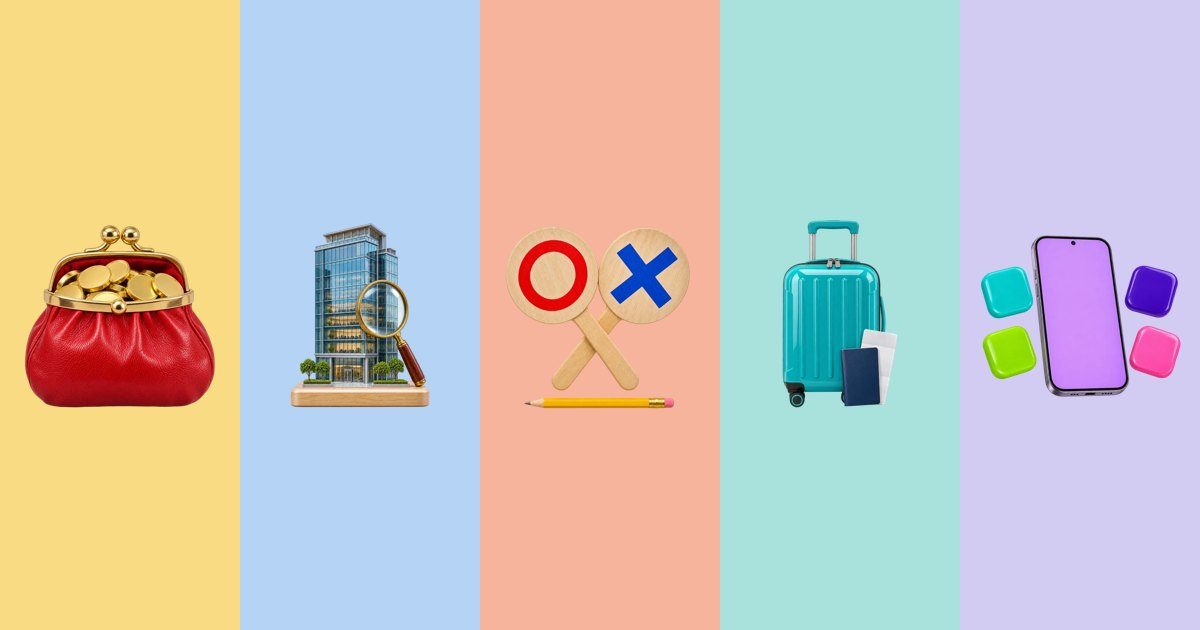
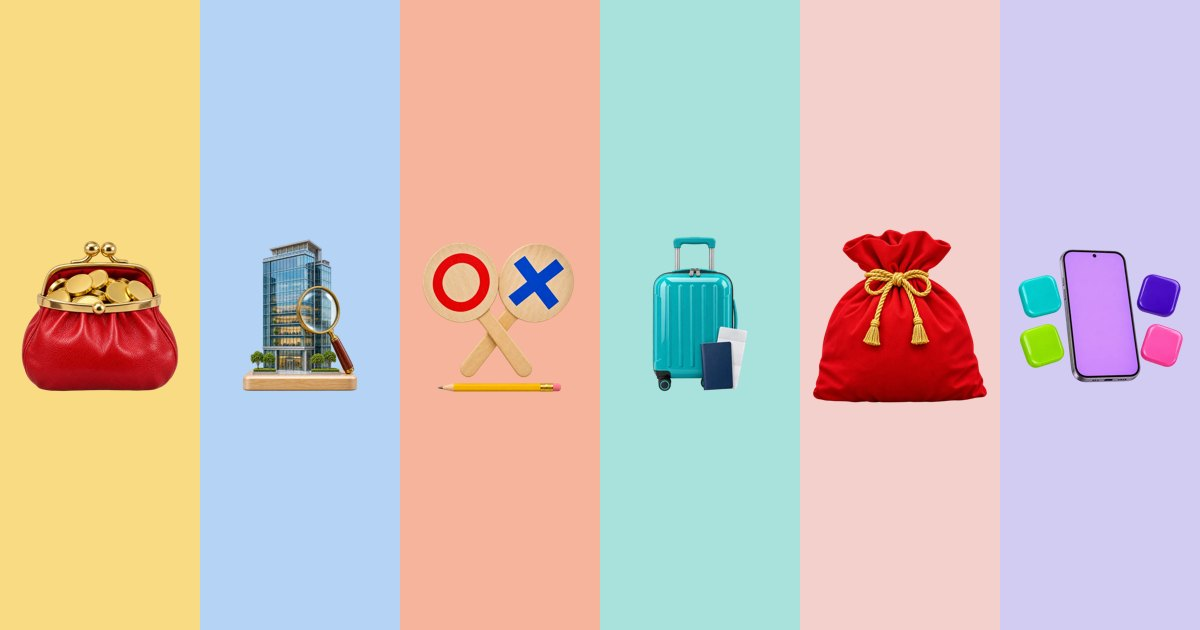
特集を更新（Codex）

diff --git a/feature/fukubukuro/index.html b/feature/fukubukuro/index.html
@@ -1,0 +1,21 @@
+<!DOCTYPE html>
+<html lang="ja"><head><meta charset="utf-8"><meta name="viewport" content="width=device-width,initial-scale=1">
+<title>福袋の記事一覧｜OTOKUBOY</title><meta name="description" content="ブランドごとの福袋の中身、価格、予約・抽選・受取日。"><link rel="canonical" href="https://otokuboy.com/feature/fukubukuro/">
+<meta name="robots" content="max-image-preview:large">
+<meta property="og:title" content="福袋の記事一覧｜OTOKUBOY"><meta property="og:description" content="ブランドごとの福袋の中身、価格、予約・抽選・受取日。"><meta property="og:type" content="website"><meta property="og:site_name" content="OTOKUBOY"><meta property="og:url" content="https://otokuboy.com/feature/fukubukuro/"><meta property="og:locale" content="ja_JP">
+<meta property="og:image" content="https://otokuboy.com/og.jpg"><meta name="twitter:card" content="summary_large_image"><meta name="twitter:site" content="@otokuboy0214">
+<script type="application/ld+json">{"@context": "https://schema.org", "@type": "BreadcrumbList", "itemListElement": [{"@type": "ListItem", "position": 1, "name": "売り場", "item": "https://otokuboy.com/"}, {"@type": "ListItem", "position": 2, "name": "特集", "item": "https://otokuboy.com/feature/"}, {"@type": "ListItem", "position": 3, "name": "福袋", "item": "https://otokuboy.com/feature/fukubukuro/"}]}</script>
+<link rel="alternate" type="application/rss+xml" title="OTOKUBOY" href="https://otokuboy.com/feed.xml">
+<link rel="icon" href="../../favicon.png"><link rel="apple-touch-icon" href="../../apple-touch-icon.png">
+<link rel="preconnect" href="https://fonts.googleapis.com"><link rel="preconnect" href="https://fonts.gstatic.com" crossorigin><link rel="stylesheet" href="https://fonts.googleapis.com/css2?family=Anton&family=Dela+Gothic+One&family=M+PLUS+1+Code:wght@400;500;700&family=Zen+Kaku+Gothic+New:wght@500;700&display=swap"><link rel="stylesheet" href="../../style.css"></head><body>
+<header class="top"><a class="brand" href="../../">OTOKUBOY<small>お金とアプリの売り場</small></a></header>
+<main><div class="a-head s-head" style="--bg:#F3D0CB;--fg:#67273A"><div class="hero"><img src="../../img/hero/feature.webp" alt=""></div><div class="wrap">
+<p class="crumb"><a href="../../">売り場</a> ／ <a href="../../feature/">特集</a></p><p class="hook">ブログ</p><h1>福袋</h1>
+<p class="lede">ブランドごとの福袋の中身、価格、予約・抽選・受取日。</p></div></div>
+<section class="latest"><div class="wrap"><p class="chips"><a href="../../feature/">ぜんぶ</a><a href="../../feature/fukubukuro/" class=on>福袋</a><a href="../../feature/hatsuuri/">初売り</a></p><div class="finder"><label><span class="vh">記事をさがす</span><input type="search" placeholder="キーワードでさがす（例: ふるさと納税・締切・福袋）" autocomplete="off"></label><p class="count" aria-live="polite"><b>2</b>本</p></div><div class="cards" data-page="12"><a class="card" data-k="サンリオ福袋2027は全7キャラ4,990円で1人交代 1人だけ交代 福袋・セール サンリオの福袋2027が2026年11月20日に発表されました。全7キャラクター共通で価格は4,990円、去年と同額です。キャラクターは1人だけ交代し、中身のアイテムも1品入れ替わっています。価格・予約スケジュール・去年との違いを公式発表から整理しました。" style="--bg:#F7B49C;--fg:#7A1620" href="../../money/breaking-sanrio-fukubukuro2027-20261120/"><img src="../../img/thumb/gOXu60-PbUg.jpg" alt="" loading="lazy"><span class="b"><span class="m">2026-11-20・福袋・セール</span><span class="hook">1人だけ交代</span><span class="t">サンリオ福袋2027は全7キャラ4,990円で1人交代</span></span></a><a class="card" data-k="ゴディバ福袋2027は3種類、価格据え置きでも中身は変化 価格は据え置き 福袋・セール ゴディバの福袋2027が2026年11月20日に発表されました。通常版5,400円・アウトレット限定6,000円・オンライン限定6,480円で価格は去年と同じですが、中身は一部入れ替わっています。価格・中身・予約スケジュールを公式発表から整理しました。" style="--bg:#F7B49C;--fg:#7A1620" href="../../money/breaking-godiva-fukubukuro2027-20261120/"><img src="../../img/thumb/utB9GA4n9JY.jpg" alt="" loading="lazy"><span class="b"><span class="m">2026-11-20・福袋・セール</span><span class="hook">価格は据え置き</span><span class="t">ゴディバ福袋2027は3種類、価格据え置きでも中身は変化</span></span></a></div><p class="more"><button type="button">もっと見る</button></p></div></section><section class="ads list-ads"><div class="wrap"><aside class="ad ad-main" style="--ad:#BF0000" aria-label="広告"><p class="ad-tag">広告・紹介リンク</p><div class="ad-in"><div class="ad-pic"><img src="../../img/ads/rakuten_card.webp" width="468" height="296" alt="楽天カードの公式画像" loading="lazy"></div><div class="ad-txt"><p class="ad-brand">楽天カード</p><p class="ad-h"><small>新規入会とご利用で</small><b>最大<span>11,000</span>ポイント</b></p><p class="ad-until">11月30日（月）10:00 まで</p><ul><li>年会費は永年無料</li><li>初めて楽天カードを申し込む方が対象</li><li>ポイントの進呈には条件があります</li></ul><div class="ad-btns"><a class="ad-btn" href="https://r10.to/hYuSct?openExternalBrowser=1" rel="sponsored nofollow noopener" target="_blank">紹介ページで条件を見る</a></div></div></div><p class="ad-note">※ 2026/11/21 時点の内容です。条件・期間は変わることがあります。申込みの前にリンク先の公式の案内を確かめてください。</p></aside></div></section></main>
+<footer class="foot"><div class="wrap"><div class="g">
+<div><h4>YOUTUBE</h4><ul><li><a href="../../money/">お金（お金の総合チャンネル）</a></li><li><a href="../../kaitai/">企業解説（ビジネス解体新書）</a></li><li><a href="../../shikaku/">資格解説（マルバツ資格塾）</a></li></ul></div>
+<div><h4>APPS</h4><ul><li><a href="../../apps/diving/">ダイビング（Ocean Discovery）</a></li><li><a href="../../apps/sake/">お酒（お酒図鑑）</a></li><li><a href="../../apps/workout/">筋トレ（筋トレクエスト）</a></li><li><a href="../../apps/tabi/">旅記録（Tabi Note）</a></li><li><a href="https://tabinoteapp.com/apps/">アプリのサポート</a></li></ul></div>
+<div><h4>ABOUT</h4><ul><li><a href="../../about/">このサイトについて・運営者</a></li><li><a href="../../privacy/">プライバシーと広告の表記</a></li><li>数字は公式の発表で確かめたものだけを載せます。</li><li>金額・締切は記事の日付時点のものです。申込みの前に公式の最新の案内を確かめてください。</li></ul></div>
+</div><div class="big">OTOKUBOY</div></div></footer>
+<script src="../../app.js"></script></body></html>

diff --git a/feature/index.html b/feature/index.html
@@ -1,0 +1,21 @@
+<!DOCTYPE html>
+<html lang="ja"><head><meta charset="utf-8"><meta name="viewport" content="width=device-width,initial-scale=1">
+<title>特集の記事一覧｜OTOKUBOY</title><meta name="description" content="福袋の中身・予約・抽選と、初売りの期間・条件をブランドごとに紹介します。"><link rel="canonical" href="https://otokuboy.com/feature/">
+<meta name="robots" content="max-image-preview:large">
+<meta property="og:title" content="特集の記事一覧｜OTOKUBOY"><meta property="og:description" content="福袋の中身・予約・抽選と、初売りの期間・条件をブランドごとに紹介します。"><meta property="og:type" content="website"><meta property="og:site_name" content="OTOKUBOY"><meta property="og:url" content="https://otokuboy.com/feature/"><meta property="og:locale" content="ja_JP">
+<meta property="og:image" content="https://otokuboy.com/og.jpg"><meta name="twitter:card" content="summary_large_image"><meta name="twitter:site" content="@otokuboy0214">
+<script type="application/ld+json">{"@context": "https://schema.org", "@type": "BreadcrumbList", "itemListElement": [{"@type": "ListItem", "position": 1, "name": "売り場", "item": "https://otokuboy.com/"}, {"@type": "ListItem", "position": 2, "name": "特集", "item": "https://otokuboy.com/feature/"}]}</script>
+<link rel="alternate" type="application/rss+xml" title="OTOKUBOY" href="https://otokuboy.com/feed.xml">
+<link rel="icon" href="../favicon.png"><link rel="apple-touch-icon" href="../apple-touch-icon.png">
+<link rel="preconnect" href="https://fonts.googleapis.com"><link rel="preconnect" href="https://fonts.gstatic.com" crossorigin><link rel="stylesheet" href="https://fonts.googleapis.com/css2?family=Anton&family=Dela+Gothic+One&family=M+PLUS+1+Code:wght@400;500;700&family=Zen+Kaku+Gothic+New:wght@500;700&display=swap"><link rel="stylesheet" href="../style.css"></head><body>
+<header class="top"><a class="brand" href="../">OTOKUBOY<small>お金とアプリの売り場</small></a></header>
+<main><div class="a-head s-head" style="--bg:#F3D0CB;--fg:#67273A"><div class="hero"><img src="../img/hero/feature.webp" alt=""></div><div class="wrap">
+<p class="crumb"><a href="../">売り場</a></p><p class="hook">ブログ</p><h1>特集</h1>
+<p class="lede">福袋の中身・予約・抽選と、初売りの期間・条件をブランドごとに紹介します。</p></div></div>
+<section class="latest"><div class="wrap"><p class="chips"><a href="../feature/" class=on>ぜんぶ</a><a href="../feature/fukubukuro/">福袋</a><a href="../feature/hatsuuri/">初売り</a></p><div class="finder"><label><span class="vh">記事をさがす</span><input type="search" placeholder="キーワードでさがす（例: ふるさと納税・締切・福袋）" autocomplete="off"></label><p class="count" aria-live="polite"><b>2</b>本</p></div><div class="cards" data-page="12"><a class="card" data-k="サンリオ福袋2027は全7キャラ4,990円で1人交代 1人だけ交代 福袋・セール サンリオの福袋2027が2026年11月20日に発表されました。全7キャラクター共通で価格は4,990円、去年と同額です。キャラクターは1人だけ交代し、中身のアイテムも1品入れ替わっています。価格・予約スケジュール・去年との違いを公式発表から整理しました。" style="--bg:#F7B49C;--fg:#7A1620" href="../money/breaking-sanrio-fukubukuro2027-20261120/"><img src="../img/thumb/gOXu60-PbUg.jpg" alt="" loading="lazy"><span class="b"><span class="m">2026-11-20・福袋・セール</span><span class="hook">1人だけ交代</span><span class="t">サンリオ福袋2027は全7キャラ4,990円で1人交代</span></span></a><a class="card" data-k="ゴディバ福袋2027は3種類、価格据え置きでも中身は変化 価格は据え置き 福袋・セール ゴディバの福袋2027が2026年11月20日に発表されました。通常版5,400円・アウトレット限定6,000円・オンライン限定6,480円で価格は去年と同じですが、中身は一部入れ替わっています。価格・中身・予約スケジュールを公式発表から整理しました。" style="--bg:#F7B49C;--fg:#7A1620" href="../money/breaking-godiva-fukubukuro2027-20261120/"><img src="../img/thumb/utB9GA4n9JY.jpg" alt="" loading="lazy"><span class="b"><span class="m">2026-11-20・福袋・セール</span><span class="hook">価格は据え置き</span><span class="t">ゴディバ福袋2027は3種類、価格据え置きでも中身は変化</span></span></a></div><p class="more"><button type="button">もっと見る</button></p></div></section><section class="ads list-ads"><div class="wrap"><aside class="ad ad-main" style="--ad:#BF0000" aria-label="広告"><p class="ad-tag">広告・紹介リンク</p><div class="ad-in"><div class="ad-pic"><img src="../img/ads/rakuten_card.webp" width="468" height="296" alt="楽天カードの公式画像" loading="lazy"></div><div class="ad-txt"><p class="ad-brand">楽天カード</p><p class="ad-h"><small>新規入会とご利用で</small><b>最大<span>11,000</span>ポイント</b></p><p class="ad-until">11月30日（月）10:00 まで</p><ul><li>年会費は永年無料</li><li>初めて楽天カードを申し込む方が対象</li><li>ポイントの進呈には条件があります</li></ul><div class="ad-btns"><a class="ad-btn" href="https://r10.to/hYuSct?openExternalBrowser=1" rel="sponsored nofollow noopener" target="_blank">紹介ページで条件を見る</a></div></div></div><p class="ad-note">※ 2026/11/21 時点の内容です。条件・期間は変わることがあります。申込みの前にリンク先の公式の案内を確かめてください。</p></aside></div></section></main>
+<footer class="foot"><div class="wrap"><div class="g">
+<div><h4>YOUTUBE</h4><ul><li><a href="../money/">お金（お金の総合チャンネル）</a></li><li><a href="../kaitai/">企業解説（ビジネス解体新書）</a></li><li><a href="../shikaku/">資格解説（マルバツ資格塾）</a></li></ul></div>
+<div><h4>APPS</h4><ul><li><a href="../apps/diving/">ダイビング（Ocean Discovery）</a></li><li><a href="../apps/sake/">お酒（お酒図鑑）</a></li><li><a href="../apps/workout/">筋トレ（筋トレクエスト）</a></li><li><a href="../apps/tabi/">旅記録（Tabi Note）</a></li><li><a href="https://tabinoteapp.com/apps/">アプリのサポート</a></li></ul></div>
+<div><h4>ABOUT</h4><ul><li><a href="../about/">このサイトについて・運営者</a></li><li><a href="../privacy/">プライバシーと広告の表記</a></li><li>数字は公式の発表で確かめたものだけを載せます。</li><li>金額・締切は記事の日付時点のものです。申込みの前に公式の最新の案内を確かめてください。</li></ul></div>
+</div><div class="big">OTOKUBOY</div></div></footer>
+<script src="../app.js"></script></body></html>

diff --git a/travel/index.html b/travel/index.html
@@ -1,8 +1,8 @@
 <!DOCTYPE html>
 <html lang="ja"><head><meta charset="utf-8"><meta name="viewport" content="width=device-width,initial-scale=1">
-<title>トラベル｜OTOKUBOY</title><meta name="description" content="旅行のセールとクーポン、マイル、旅に強いクレジットカード。旅をお得にする方法をまとめます。"><link rel="canonical" href="https://otokuboy.com/travel/">
+<title>トラベル｜OTOKUBOY</title><meta name="description" content="おすすめの宿、旅先の見どころ、セールやマイルなど、旅の計画と予約に役立つ情報をまとめます。"><link rel="canonical" href="https://otokuboy.com/travel/">
 <meta name="robots" content="noindex,follow">
-<meta property="og:title" content="トラベル｜OTOKUBOY"><meta property="og:description" content="旅行のセールとクーポン、マイル、旅に強いクレジットカード。旅をお得にする方法をまとめます。"><meta property="og:type" content="website"><meta property="og:site_name" content="OTOKUBOY"><meta property="og:url" content="https://otokuboy.com/travel/"><meta property="og:locale" content="ja_JP">
+<meta property="og:title" content="トラベル｜OTOKUBOY"><meta property="og:description" content="おすすめの宿、旅先の見どころ、セールやマイルなど、旅の計画と予約に役立つ情報をまとめます。"><meta property="og:type" content="website"><meta property="og:site_name" content="OTOKUBOY"><meta property="og:url" content="https://otokuboy.com/travel/"><meta property="og:locale" content="ja_JP">
 <meta property="og:image" content="https://otokuboy.com/og.jpg"><meta name="twitter:card" content="summary_large_image"><meta name="twitter:site" content="@otokuboy0214">
 <script type="application/ld+json">{"@context": "https://schema.org", "@type": "BreadcrumbList", "itemListElement": [{"@type": "ListItem", "position": 1, "name": "売り場", "item": "https://otokuboy.com/"}, {"@type": "ListItem", "position": 2, "name": "トラベル", "item": "https://otokuboy.com/travel/"}]}</script>
 <link rel="alternate" type="application/rss+xml" title="OTOKUBOY" href="https://otokuboy.com/feed.xml">
@@ -11,8 +11,8 @@
 <header class="top"><a class="brand" href="../">OTOKUBOY<small>お金とアプリの売り場</small></a></header>
 <main><div class="a-head s-head" style="--bg:#A9E2DC;--fg:#0C4A4E"><div class="hero"><img src="../img/hero/travel.webp" alt=""></div><div class="wrap">
 <p class="crumb"><a href="../">売り場</a></p><p class="hook">ブログ</p><h1>トラベル</h1>
-<p class="lede">旅行のセールとクーポン、マイル、旅に強いクレジットカード。旅をお得にする方法をまとめます。</p><p class="cta"><a href="https://www.youtube.com/@otokuboy" rel="noopener">YouTube「お金の総合チャンネル」</a></p></div></div>
-<section class="latest"><div class="wrap"><p class="chips"><a href="../travel/" class=on>ぜんぶ</a><a href="../travel/tsale/">旅行セール・クーポン</a><a href="../travel/mile/">マイル・ポイント</a><a href="../travel/tcard/">旅行×クレカ</a><a href="../travel/tips/">お得な旅のしかた</a></p><div class="cards" data-page="12"><p class="empty">この棚の記事は準備中です。</p></div><p class="more"><button type="button">もっと見る</button></p></div></section></main>
+<p class="lede">おすすめの宿、旅先の見どころ、セールやマイルなど、旅の計画と予約に役立つ情報をまとめます。</p></div></div><nav class="travel-topics wrap" aria-label="トラベルのカテゴリー"><section><h2>行き先・宿を探す</h2><div><a href="../travel/destinations/"><strong>旅行先ガイド</strong><span>観光地の見どころ、アクセス、旅程を考えるための情報。</span></a><a href="../travel/hotels/"><strong>おすすめホテル</strong><span>立地・客室・設備から、旅の目的に合う宿を比較。</span></a></div></section><section><h2>お得に予約する</h2><div><a href="../travel/tsale/"><strong>旅行セール・クーポン</strong><span>宿泊・航空券のセールやクーポンの条件と期限。</span></a><a href="../travel/tips/"><strong>お得な旅のしかた</strong><span>早期予約や連泊割引など、旅費を抑える工夫。</span></a><a href="../travel/mile/"><strong>マイル・ポイント</strong><span>マイルやポイントの貯め方・使い方。</span></a><a href="../travel/tcard/"><strong>旅行×クレカ</strong><span>旅行保険、ラウンジ、決済特典の条件。</span></a></div></section></nav>
+<section class="latest"><div class="wrap"><h2 class="travel-latest">新着記事</h2><div class="cards" data-page="12"><p class="empty">この棚の記事は準備中です。</p></div><p class="more"><button type="button">もっと見る</button></p></div></section></main>
 <footer class="foot"><div class="wrap"><div class="g">
 <div><h4>YOUTUBE</h4><ul><li><a href="../money/">お金（お金の総合チャンネル）</a></li><li><a href="../kaitai/">企業解説（ビジネス解体新書）</a></li><li><a href="../shikaku/">資格解説（マルバツ資格塾）</a></li></ul></div>
 <div><h4>APPS</h4><ul><li><a href="../apps/diving/">ダイビング（Ocean Discovery）</a></li><li><a href="../apps/sake/">お酒（お酒図鑑）</a></li><li><a href="../apps/workout/">筋トレ（筋トレクエスト）</a></li><li><a href="../apps/tabi/">旅記録（Tabi Note）</a></li><li><a href="https://tabinoteapp.com/apps/">アプリのサポート</a></li></ul></div>

diff --git a/travel/tsale/index.html b/travel/tsale/index.html
@@ -1,8 +1,8 @@
 <!DOCTYPE html>
 <html lang="ja"><head><meta charset="utf-8"><meta name="viewport" content="width=device-width,initial-scale=1">
-<title>旅行セール・クーポン｜OTOKUBOY</title><meta name="description" content="旅行セール・クーポンの締切・金額・手順をまとめた記事の一覧です。"><link rel="canonical" href="https://otokuboy.com/travel/tsale/">
+<title>旅行セール・クーポン｜OTOKUBOY</title><meta name="description" content="宿泊・航空券のセールやクーポンの条件と期限。"><link rel="canonical" href="https://otokuboy.com/travel/tsale/">
 <meta name="robots" content="noindex,follow">
-<meta property="og:title" content="旅行セール・クーポン｜OTOKUBOY"><meta property="og:description" content="旅行セール・クーポンの締切・金額・手順をまとめた記事の一覧です。"><meta property="og:type" content="website"><meta property="og:site_name" content="OTOKUBOY"><meta property="og:url" content="https://otokuboy.com/travel/tsale/"><meta property="og:locale" content="ja_JP">
+<meta property="og:title" content="旅行セール・クーポン｜OTOKUBOY"><meta property="og:description" content="宿泊・航空券のセールやクーポンの条件と期限。"><meta property="og:type" content="website"><meta property="og:site_name" content="OTOKUBOY"><meta property="og:url" content="https://otokuboy.com/travel/tsale/"><meta property="og:locale" content="ja_JP">
 <meta property="og:image" content="https://otokuboy.com/og.jpg"><meta name="twitter:card" content="summary_large_image"><meta name="twitter:site" content="@otokuboy0214">
 <script type="application/ld+json">{"@context": "https://schema.org", "@type": "BreadcrumbList", "itemListElement": [{"@type": "ListItem", "position": 1, "name": "売り場", "item": "https://otokuboy.com/"}, {"@type": "ListItem", "position": 2, "name": "トラベル", "item": "https://otokuboy.com/travel/"}, {"@type": "ListItem", "position": 3, "name": "旅行セール・クーポン", "item": "https://otokuboy.com/travel/tsale/"}]}</script>
 <link rel="alternate" type="application/rss+xml" title="OTOKUBOY" href="https://otokuboy.com/feed.xml">
@@ -11,8 +11,8 @@
 <header class="top"><a class="brand" href="../../">OTOKUBOY<small>お金とアプリの売り場</small></a></header>
 <main><div class="a-head s-head" style="--bg:#F7B49C;--fg:#7A1620"><div class="hero"><img src="../../img/hero/travel.webp" alt=""></div><div class="wrap">
 <p class="crumb"><a href="../../">売り場</a> ／ <a href="../../travel/">トラベル</a></p><p class="hook">ブログ</p><h1>旅行セール・クーポン</h1>
-<p class="lede">旅行のセールとクーポン、マイル、旅に強いクレジットカード。旅をお得にする方法をまとめます。</p><p class="cta"><a href="https://www.youtube.com/@otokuboy" rel="noopener">YouTube「お金の総合チャンネル」</a></p></div></div>
-<section class="latest"><div class="wrap"><p class="chips"><a href="../../travel/">ぜんぶ</a><a href="../../travel/tsale/" class=on>旅行セール・クーポン</a><a href="../../travel/mile/">マイル・ポイント</a><a href="../../travel/tcard/">旅行×クレカ</a><a href="../../travel/tips/">お得な旅のしかた</a></p><div class="cards" data-page="12"><p class="empty">この棚の記事は準備中です。</p></div><p class="more"><button type="button">もっと見る</button></p></div></section></main>
+<p class="lede">宿泊・航空券のセールやクーポンの条件と期限。</p></div></div>
+<section class="latest"><div class="wrap"><p class="chips"><a href="../../travel/">ぜんぶ</a><a href="../../travel/tsale/" class=on>旅行セール・クーポン</a><a href="../../travel/mile/">マイル・ポイント</a><a href="../../travel/tcard/">旅行×クレカ</a><a href="../../travel/tips/">お得な旅のしかた</a><a href="../../travel/hotels/">おすすめホテル</a><a href="../../travel/destinations/">旅行先ガイド</a></p><div class="cards" data-page="12"><p class="empty">この棚の記事は準備中です。</p></div><p class="more"><button type="button">もっと見る</button></p></div></section></main>
 <footer class="foot"><div class="wrap"><div class="g">
 <div><h4>YOUTUBE</h4><ul><li><a href="../../money/">お金（お金の総合チャンネル）</a></li><li><a href="../../kaitai/">企業解説（ビジネス解体新書）</a></li><li><a href="../../shikaku/">資格解説（マルバツ資格塾）</a></li></ul></div>
 <div><h4>APPS</h4><ul><li><a href="../../apps/diving/">ダイビング（Ocean Discovery）</a></li><li><a href="../../apps/sake/">お酒（お酒図鑑）</a></li><li><a href="../../apps/workout/">筋トレ（筋トレクエスト）</a></li><li><a href="../../apps/tabi/">旅記録（Tabi Note）</a></li><li><a href="https://tabinoteapp.com/apps/">アプリのサポート</a></li></ul></div>

diff --git a/travel/tips/index.html b/travel/tips/index.html
@@ -1,8 +1,8 @@
 <!DOCTYPE html>
 <html lang="ja"><head><meta charset="utf-8"><meta name="viewport" content="width=device-width,initial-scale=1">
-<title>お得な旅のしかた｜OTOKUBOY</title><meta name="description" content="お得な旅のしかたの締切・金額・手順をまとめた記事の一覧です。"><link rel="canonical" href="https://otokuboy.com/travel/tips/">
+<title>お得な旅のしかた｜OTOKUBOY</title><meta name="description" content="早期予約や連泊割引など、旅費を抑える工夫。"><link rel="canonical" href="https://otokuboy.com/travel/tips/">
 <meta name="robots" content="noindex,follow">
-<meta property="og:title" content="お得な旅のしかた｜OTOKUBOY"><meta property="og:description" content="お得な旅のしかたの締切・金額・手順をまとめた記事の一覧です。"><meta property="og:type" content="website"><meta property="og:site_name" content="OTOKUBOY"><meta property="og:url" content="https://otokuboy.com/travel/tips/"><meta property="og:locale" content="ja_JP">
+<meta property="og:title" content="お得な旅のしかた｜OTOKUBOY"><meta property="og:description" content="早期予約や連泊割引など、旅費を抑える工夫。"><meta property="og:type" content="website"><meta property="og:site_name" content="OTOKUBOY"><meta property="og:url" content="https://otokuboy.com/travel/tips/"><meta property="og:locale" content="ja_JP">
 <meta property="og:image" content="https://otokuboy.com/og.jpg"><meta name="twitter:card" content="summary_large_image"><meta name="twitter:site" content="@otokuboy0214">
 <script type="application/ld+json">{"@context": "https://schema.org", "@type": "BreadcrumbList", "itemListElement": [{"@type": "ListItem", "position": 1, "name": "売り場", "item": "https://otokuboy.com/"}, {"@type": "ListItem", "position": 2, "name": "トラベル", "item": "https://otokuboy.com/travel/"}, {"@type": "ListItem", "position": 3, "name": "お得な旅のしかた", "item": "https://otokuboy.com/travel/tips/"}]}</script>
 <link rel="alternate" type="application/rss+xml" title="OTOKUBOY" href="https://otokuboy.com/feed.xml">
@@ -11,8 +11,8 @@
 <header class="top"><a class="brand" href="../../">OTOKUBOY<small>お金とアプリの売り場</small></a></header>
 <main><div class="a-head s-head" style="--bg:#CDE8B4;--fg:#1E4A22"><div class="hero"><img src="../../img/hero/travel.webp" alt=""></div><div class="wrap">
 <p class="crumb"><a href="../../">売り場</a> ／ <a href="../../travel/">トラベル</a></p><p class="hook">ブログ</p><h1>お得な旅のしかた</h1>
-<p class="lede">旅行のセールとクーポン、マイル、旅に強いクレジットカード。旅をお得にする方法をまとめます。</p><p class="cta"><a href="https://www.youtube.com/@otokuboy" rel="noopener">YouTube「お金の総合チャンネル」</a></p></div></div>
-<section class="latest"><div class="wrap"><p class="chips"><a href="../../travel/">ぜんぶ</a><a href="../../travel/tsale/">旅行セール・クーポン</a><a href="../../travel/mile/">マイル・ポイント</a><a href="../../travel/tcard/">旅行×クレカ</a><a href="../../travel/tips/" class=on>お得な旅のしかた</a></p><div class="cards" data-page="12"><p class="empty">この棚の記事は準備中です。</p></div><p class="more"><button type="button">もっと見る</button></p></div></section></main>
+<p class="lede">早期予約や連泊割引など、旅費を抑える工夫。</p></div></div>
+<section class="latest"><div class="wrap"><p class="chips"><a href="../../travel/">ぜんぶ</a><a href="../../travel/tsale/">旅行セール・クーポン</a><a href="../../travel/mile/">マイル・ポイント</a><a href="../../travel/tcard/">旅行×クレカ</a><a href="../../travel/tips/" class=on>お得な旅のしかた</a><a href="../../travel/hotels/">おすすめホテル</a><a href="../../travel/destinations/">旅行先ガイド</a></p><div class="cards" data-page="12"><p class="empty">この棚の記事は準備中です。</p></div><p class="more"><button type="button">もっと見る</button></p></div></section></main>
 <footer class="foot"><div class="wrap"><div class="g">
 <div><h4>YOUTUBE</h4><ul><li><a href="../../money/">お金（お金の総合チャンネル）</a></li><li><a href="../../kaitai/">企業解説（ビジネス解体新書）</a></li><li><a href="../../shikaku/">資格解説（マルバツ資格塾）</a></li></ul></div>
 <div><h4>APPS</h4><ul><li><a href="../../apps/diving/">ダイビング（Ocean Discovery）</a></li><li><a href="../../apps/sake/">お酒（お酒図鑑）</a></li><li><a href="../../apps/workout/">筋トレ（筋トレクエスト）</a></li><li><a href="../../apps/tabi/">旅記録（Tabi Note）</a></li><li><a href="https://tabinoteapp.com/apps/">アプリのサポート</a></li></ul></div>

diff --git a/travel/mile/index.html b/travel/mile/index.html
@@ -1,8 +1,8 @@
 <!DOCTYPE html>
 <html lang="ja"><head><meta charset="utf-8"><meta name="viewport" content="width=device-width,initial-scale=1">
-<title>マイル・ポイント｜OTOKUBOY</title><meta name="description" content="マイル・ポイントの締切・金額・手順をまとめた記事の一覧です。"><link rel="canonical" href="https://otokuboy.com/travel/mile/">
+<title>マイル・ポイント｜OTOKUBOY</title><meta name="description" content="マイルやポイントの貯め方・使い方。"><link rel="canonical" href="https://otokuboy.com/travel/mile/">
 <meta name="robots" content="noindex,follow">
-<meta property="og:title" content="マイル・ポイント｜OTOKUBOY"><meta property="og:description" content="マイル・ポイントの締切・金額・手順をまとめた記事の一覧です。"><meta property="og:type" content="website"><meta property="og:site_name" content="OTOKUBOY"><meta property="og:url" content="https://otokuboy.com/travel/mile/"><meta property="og:locale" content="ja_JP">
+<meta property="og:title" content="マイル・ポイント｜OTOKUBOY"><meta property="og:description" content="マイルやポイントの貯め方・使い方。"><meta property="og:type" content="website"><meta property="og:site_name" content="OTOKUBOY"><meta property="og:url" content="https://otokuboy.com/travel/mile/"><meta property="og:locale" content="ja_JP">
 <meta property="og:image" content="https://otokuboy.com/og.jpg"><meta name="twitter:card" content="summary_large_image"><meta name="twitter:site" content="@otokuboy0214">
 <script type="application/ld+json">{"@context": "https://schema.org", "@type": "BreadcrumbList", "itemListElement": [{"@type": "ListItem", "position": 1, "name": "売り場", "item": "https://otokuboy.com/"}, {"@type": "ListItem", "position": 2, "name": "トラベル", "item": "https://otokuboy.com/travel/"}, {"@type": "ListItem", "position": 3, "name": "マイル・ポイント", "item": "https://otokuboy.com/travel/mile/"}]}</script>
 <link rel="alternate" type="application/rss+xml" title="OTOKUBOY" href="https://otokuboy.com/feed.xml">
@@ -11,8 +11,8 @@
 <header class="top"><a class="brand" href="../../">OTOKUBOY<small>お金とアプリの売り場</small></a></header>
 <main><div class="a-head s-head" style="--bg:#B5D3F5;--fg:#15346F"><div class="hero"><img src="../../img/hero/travel.webp" alt=""></div><div class="wrap">
 <p class="crumb"><a href="../../">売り場</a> ／ <a href="../../travel/">トラベル</a></p><p class="hook">ブログ</p><h1>マイル・ポイント</h1>
-<p class="lede">旅行のセールとクーポン、マイル、旅に強いクレジットカード。旅をお得にする方法をまとめます。</p><p class="cta"><a href="https://www.youtube.com/@otokuboy" rel="noopener">YouTube「お金の総合チャンネル」</a></p></div></div>
-<section class="latest"><div class="wrap"><p class="chips"><a href="../../travel/">ぜんぶ</a><a href="../../travel/tsale/">旅行セール・クーポン</a><a href="../../travel/mile/" class=on>マイル・ポイント</a><a href="../../travel/tcard/">旅行×クレカ</a><a href="../../travel/tips/">お得な旅のしかた</a></p><div class="cards" data-page="12"><p class="empty">この棚の記事は準備中です。</p></div><p class="more"><button type="button">もっと見る</button></p></div></section></main>
+<p class="lede">マイルやポイントの貯め方・使い方。</p></div></div>
+<section class="latest"><div class="wrap"><p class="chips"><a href="../../travel/">ぜんぶ</a><a href="../../travel/tsale/">旅行セール・クーポン</a><a href="../../travel/mile/" class=on>マイル・ポイント</a><a href="../../travel/tcard/">旅行×クレカ</a><a href="../../travel/tips/">お得な旅のしかた</a><a href="../../travel/hotels/">おすすめホテル</a><a href="../../travel/destinations/">旅行先ガイド</a></p><div class="cards" data-page="12"><p class="empty">この棚の記事は準備中です。</p></div><p class="more"><button type="button">もっと見る</button></p></div></section></main>
 <footer class="foot"><div class="wrap"><div class="g">
 <div><h4>YOUTUBE</h4><ul><li><a href="../../money/">お金（お金の総合チャンネル）</a></li><li><a href="../../kaitai/">企業解説（ビジネス解体新書）</a></li><li><a href="../../shikaku/">資格解説（マルバツ資格塾）</a></li></ul></div>
 <div><h4>APPS</h4><ul><li><a href="../../apps/diving/">ダイビング（Ocean Discovery）</a></li><li><a href="../../apps/sake/">お酒（お酒図鑑）</a></li><li><a href="../../apps/workout/">筋トレ（筋トレクエスト）</a></li><li><a href="../../apps/tabi/">旅記録（Tabi Note）</a></li><li><a href="https://tabinoteapp.com/apps/">アプリのサポート</a></li></ul></div>

diff --git a/travel/tcard/index.html b/travel/tcard/index.html
@@ -1,8 +1,8 @@
 <!DOCTYPE html>
 <html lang="ja"><head><meta charset="utf-8"><meta name="viewport" content="width=device-width,initial-scale=1">
-<title>旅行×クレカ｜OTOKUBOY</title><meta name="description" content="旅行×クレカの締切・金額・手順をまとめた記事の一覧です。"><link rel="canonical" href="https://otokuboy.com/travel/tcard/">
+<title>旅行×クレカ｜OTOKUBOY</title><meta name="description" content="旅行保険、ラウンジ、決済特典の条件。"><link rel="canonical" href="https://otokuboy.com/travel/tcard/">
 <meta name="robots" content="noindex,follow">
-<meta property="og:title" content="旅行×クレカ｜OTOKUBOY"><meta property="og:description" content="旅行×クレカの締切・金額・手順をまとめた記事の一覧です。"><meta property="og:type" content="website"><meta property="og:site_name" content="OTOKUBOY"><meta property="og:url" content="https://otokuboy.com/travel/tcard/"><meta property="og:locale" content="ja_JP">
+<meta property="og:title" content="旅行×クレカ｜OTOKUBOY"><meta property="og:description" content="旅行保険、ラウンジ、決済特典の条件。"><meta property="og:type" content="website"><meta property="og:site_name" content="OTOKUBOY"><meta property="og:url" content="https://otokuboy.com/travel/tcard/"><meta property="og:locale" content="ja_JP">
 <meta property="og:image" content="https://otokuboy.com/og.jpg"><meta name="twitter:card" content="summary_large_image"><meta name="twitter:site" content="@otokuboy0214">
 <script type="application/ld+json">{"@context": "https://schema.org", "@type": "BreadcrumbList", "itemListElement": [{"@type": "ListItem", "position": 1, "name": "売り場", "item": "https://otokuboy.com/"}, {"@type": "ListItem", "position": 2, "name": "トラベル", "item": "https://otokuboy.com/travel/"}, {"@type": "ListItem", "position": 3, "name": "旅行×クレカ", "item": "https://otokuboy.com/travel/tcard/"}]}</script>
 <link rel="alternate" type="application/rss+xml" title="OTOKUBOY" href="https://otokuboy.com/feed.xml">
@@ -11,8 +11,8 @@
 <header class="top"><a class="brand" href="../../">OTOKUBOY<small>お金とアプリの売り場</small></a></header>
 <main><div class="a-head s-head" style="--bg:#F8DB82;--fg:#5C3A00"><div class="hero"><img src="../../img/hero/travel.webp" alt=""></div><div class="wrap">
 <p class="crumb"><a href="../../">売り場</a> ／ <a href="../../travel/">トラベル</a></p><p class="hook">ブログ</p><h1>旅行×クレカ</h1>
-<p class="lede">旅行のセールとクーポン、マイル、旅に強いクレジットカード。旅をお得にする方法をまとめます。</p><p class="cta"><a href="https://www.youtube.com/@otokuboy" rel="noopener">YouTube「お金の総合チャンネル」</a></p></div></div>
-<section class="latest"><div class="wrap"><p class="chips"><a href="../../travel/">ぜんぶ</a><a href="../../travel/tsale/">旅行セール・クーポン</a><a href="../../travel/mile/">マイル・ポイント</a><a href="../../travel/tcard/" class=on>旅行×クレカ</a><a href="../../travel/tips/">お得な旅のしかた</a></p><div class="cards" data-page="12"><p class="empty">この棚の記事は準備中です。</p></div><p class="more"><button type="button">もっと見る</button></p></div></section></main>
+<p class="lede">旅行保険、ラウンジ、決済特典の条件。</p></div></div>
+<section class="latest"><div class="wrap"><p class="chips"><a href="../../travel/">ぜんぶ</a><a href="../../travel/tsale/">旅行セール・クーポン</a><a href="../../travel/mile/">マイル・ポイント</a><a href="../../travel/tcard/" class=on>旅行×クレカ</a><a href="../../travel/tips/">お得な旅のしかた</a><a href="../../travel/hotels/">おすすめホテル</a><a href="../../travel/destinations/">旅行先ガイド</a></p><div class="cards" data-page="12"><p class="empty">この棚の記事は準備中です。</p></div><p class="more"><button type="button">もっと見る</button></p></div></section></main>
 <footer class="foot"><div class="wrap"><div class="g">
 <div><h4>YOUTUBE</h4><ul><li><a href="../../money/">お金（お金の総合チャンネル）</a></li><li><a href="../../kaitai/">企業解説（ビジネス解体新書）</a></li><li><a href="../../shikaku/">資格解説（マルバツ資格塾）</a></li></ul></div>
 <div><h4>APPS</h4><ul><li><a href="../../apps/diving/">ダイビング（Ocean Discovery）</a></li><li><a href="../../apps/sake/">お酒（お酒図鑑）</a></li><li><a href="../../apps/workout/">筋トレ（筋トレクエスト）</a></li><li><a href="../../apps/tabi/">旅記録（Tabi Note）</a></li><li><a href="https://tabinoteapp.com/apps/">アプリのサポート</a></li></ul></div>

diff --git a/travel/destinations/index.html b/travel/destinations/index.html
@@ -1,0 +1,21 @@
+<!DOCTYPE html>
+<html lang="ja"><head><meta charset="utf-8"><meta name="viewport" content="width=device-width,initial-scale=1">
+<title>旅行先ガイド｜OTOKUBOY</title><meta name="description" content="観光地の見どころ、アクセス、旅程を考えるための情報。"><link rel="canonical" href="https://otokuboy.com/travel/destinations/">
+<meta name="robots" content="noindex,follow">
+<meta property="og:title" content="旅行先ガイド｜OTOKUBOY"><meta property="og:description" content="観光地の見どころ、アクセス、旅程を考えるための情報。"><meta property="og:type" content="website"><meta property="og:site_name" content="OTOKUBOY"><meta property="og:url" content="https://otokuboy.com/travel/destinations/"><meta property="og:locale" content="ja_JP">
+<meta property="og:image" content="https://otokuboy.com/og.jpg"><meta name="twitter:card" content="summary_large_image"><meta name="twitter:site" content="@otokuboy0214">
+<script type="application/ld+json">{"@context": "https://schema.org", "@type": "BreadcrumbList", "itemListElement": [{"@type": "ListItem", "position": 1, "name": "売り場", "item": "https://otokuboy.com/"}, {"@type": "ListItem", "position": 2, "name": "トラベル", "item": "https://otokuboy.com/travel/"}, {"@type": "ListItem", "position": 3, "name": "旅行先ガイド", "item": "https://otokuboy.com/travel/destinations/"}]}</script>
+<link rel="alternate" type="application/rss+xml" title="OTOKUBOY" href="https://otokuboy.com/feed.xml">
+<link rel="icon" href="../../favicon.png"><link rel="apple-touch-icon" href="../../apple-touch-icon.png">
+<link rel="preconnect" href="https://fonts.googleapis.com"><link rel="preconnect" href="https://fonts.gstatic.com" crossorigin><link rel="stylesheet" href="https://fonts.googleapis.com/css2?family=Anton&family=Dela+Gothic+One&family=M+PLUS+1+Code:wght@400;500;700&family=Zen+Kaku+Gothic+New:wght@500;700&display=swap"><link rel="stylesheet" href="../../style.css"></head><body>
+<header class="top"><a class="brand" href="../../">OTOKUBOY<small>お金とアプリの売り場</small></a></header>
+<main><div class="a-head s-head" style="--bg:#A9E2DC;--fg:#0C4A4E"><div class="hero"><img src="../../img/hero/travel.webp" alt=""></div><div class="wrap">
+<p class="crumb"><a href="../../">売り場</a> ／ <a href="../../travel/">トラベル</a></p><p class="hook">ブログ</p><h1>旅行先ガイド</h1>
+<p class="lede">観光地の見どころ、アクセス、旅程を考えるための情報。</p></div></div>
+<section class="latest"><div class="wrap"><p class="chips"><a href="../../travel/">ぜんぶ</a><a href="../../travel/tsale/">旅行セール・クーポン</a><a href="../../travel/mile/">マイル・ポイント</a><a href="../../travel/tcard/">旅行×クレカ</a><a href="../../travel/tips/">お得な旅のしかた</a><a href="../../travel/hotels/">おすすめホテル</a><a href="../../travel/destinations/" class=on>旅行先ガイド</a></p><div class="cards" data-page="12"><p class="empty">この棚の記事は準備中です。</p></div><p class="more"><button type="button">もっと見る</button></p></div></section></main>
+<footer class="foot"><div class="wrap"><div class="g">
+<div><h4>YOUTUBE</h4><ul><li><a href="../../money/">お金（お金の総合チャンネル）</a></li><li><a href="../../kaitai/">企業解説（ビジネス解体新書）</a></li><li><a href="../../shikaku/">資格解説（マルバツ資格塾）</a></li></ul></div>
+<div><h4>APPS</h4><ul><li><a href="../../apps/diving/">ダイビング（Ocean Discovery）</a></li><li><a href="../../apps/sake/">お酒（お酒図鑑）</a></li><li><a href="../../apps/workout/">筋トレ（筋トレクエスト）</a></li><li><a href="../../apps/tabi/">旅記録（Tabi Note）</a></li><li><a href="https://tabinoteapp.com/apps/">アプリのサポート</a></li></ul></div>
+<div><h4>ABOUT</h4><ul><li><a href="../../about/">このサイトについて・運営者</a></li><li><a href="../../privacy/">プライバシーと広告の表記</a></li><li>数字は公式の発表で確かめたものだけを載せます。</li><li>金額・締切は記事の日付時点のものです。申込みの前に公式の最新の案内を確かめてください。</li></ul></div>
+</div><div class="big">OTOKUBOY</div></div></footer>
+<script src="../../app.js"></script></body></html>

diff --git a/travel/hotels/index.html b/travel/hotels/index.html
@@ -1,0 +1,21 @@
+<!DOCTYPE html>
+<html lang="ja"><head><meta charset="utf-8"><meta name="viewport" content="width=device-width,initial-scale=1">
+<title>おすすめホテル｜OTOKUBOY</title><meta name="description" content="立地・客室・設備から、旅の目的に合う宿を比較。"><link rel="canonical" href="https://otokuboy.com/travel/hotels/">
+<meta name="robots" content="noindex,follow">
+<meta property="og:title" content="おすすめホテル｜OTOKUBOY"><meta property="og:description" content="立地・客室・設備から、旅の目的に合う宿を比較。"><meta property="og:type" content="website"><meta property="og:site_name" content="OTOKUBOY"><meta property="og:url" content="https://otokuboy.com/travel/hotels/"><meta property="og:locale" content="ja_JP">
+<meta property="og:image" content="https://otokuboy.com/og.jpg"><meta name="twitter:card" content="summary_large_image"><meta name="twitter:site" content="@otokuboy0214">
+<script type="application/ld+json">{"@context": "https://schema.org", "@type": "BreadcrumbList", "itemListElement": [{"@type": "ListItem", "position": 1, "name": "売り場", "item": "https://otokuboy.com/"}, {"@type": "ListItem", "position": 2, "name": "トラベル", "item": "https://otokuboy.com/travel/"}, {"@type": "ListItem", "position": 3, "name": "おすすめホテル", "item": "https://otokuboy.com/travel/hotels/"}]}</script>
+<link rel="alternate" type="application/rss+xml" title="OTOKUBOY" href="https://otokuboy.com/feed.xml">
+<link rel="icon" href="../../favicon.png"><link rel="apple-touch-icon" href="../../apple-touch-icon.png">
+<link rel="preconnect" href="https://fonts.googleapis.com"><link rel="preconnect" href="https://fonts.gstatic.com" crossorigin><link rel="stylesheet" href="https://fonts.googleapis.com/css2?family=Anton&family=Dela+Gothic+One&family=M+PLUS+1+Code:wght@400;500;700&family=Zen+Kaku+Gothic+New:wght@500;700&display=swap"><link rel="stylesheet" href="../../style.css"></head><body>
+<header class="top"><a class="brand" href="../../">OTOKUBOY<small>お金とアプリの売り場</small></a></header>
+<main><div class="a-head s-head" style="--bg:#DED4ED;--fg:#442E60"><div class="hero"><img src="../../img/hero/travel.webp" alt=""></div><div class="wrap">
+<p class="crumb"><a href="../../">売り場</a> ／ <a href="../../travel/">トラベル</a></p><p class="hook">ブログ</p><h1>おすすめホテル</h1>
+<p class="lede">立地・客室・設備から、旅の目的に合う宿を比較。</p></div></div>
+<section class="latest"><div class="wrap"><p class="chips"><a href="../../travel/">ぜんぶ</a><a href="../../travel/tsale/">旅行セール・クーポン</a><a href="../../travel/mile/">マイル・ポイント</a><a href="../../travel/tcard/">旅行×クレカ</a><a href="../../travel/tips/">お得な旅のしかた</a><a href="../../travel/hotels/" class=on>おすすめホテル</a><a href="../../travel/destinations/">旅行先ガイド</a></p><div class="cards" data-page="12"><p class="empty">この棚の記事は準備中です。</p></div><p class="more"><button type="button">もっと見る</button></p></div></section></main>
+<footer class="foot"><div class="wrap"><div class="g">
+<div><h4>YOUTUBE</h4><ul><li><a href="../../money/">お金（お金の総合チャンネル）</a></li><li><a href="../../kaitai/">企業解説（ビジネス解体新書）</a></li><li><a href="../../shikaku/">資格解説（マルバツ資格塾）</a></li></ul></div>
+<div><h4>APPS</h4><ul><li><a href="../../apps/diving/">ダイビング（Ocean Discovery）</a></li><li><a href="../../apps/sake/">お酒（お酒図鑑）</a></li><li><a href="../../apps/workout/">筋トレ（筋トレクエスト）</a></li><li><a href="../../apps/tabi/">旅記録（Tabi Note）</a></li><li><a href="https://tabinoteapp.com/apps/">アプリのサポート</a></li></ul></div>
+<div><h4>ABOUT</h4><ul><li><a href="../../about/">このサイトについて・運営者</a></li><li><a href="../../privacy/">プライバシーと広告の表記</a></li><li>数字は公式の発表で確かめたものだけを載せます。</li><li>金額・締切は記事の日付時点のものです。申込みの前に公式の最新の案内を確かめてください。</li></ul></div>
+</div><div class="big">OTOKUBOY</div></div></footer>
+<script src="../../app.js"></script></body></html>

diff --git a/feature/hatsuuri/index.html b/feature/hatsuuri/index.html
@@ -1,0 +1,21 @@
+<!DOCTYPE html>
+<html lang="ja"><head><meta charset="utf-8"><meta name="viewport" content="width=device-width,initial-scale=1">
+<title>初売り｜OTOKUBOY</title><meta name="description" content="ブランドや店舗ごとの初売り日程、対象商品、特典の条件。"><link rel="canonical" href="https://otokuboy.com/feature/hatsuuri/">
+<meta name="robots" content="noindex,follow">
+<meta property="og:title" content="初売り｜OTOKUBOY"><meta property="og:description" content="ブランドや店舗ごとの初売り日程、対象商品、特典の条件。"><meta property="og:type" content="website"><meta property="og:site_name" content="OTOKUBOY"><meta property="og:url" content="https://otokuboy.com/feature/hatsuuri/"><meta property="og:locale" content="ja_JP">
+<meta property="og:image" content="https://otokuboy.com/og.jpg"><meta name="twitter:card" content="summary_large_image"><meta name="twitter:site" content="@otokuboy0214">
+<script type="application/ld+json">{"@context": "https://schema.org", "@type": "BreadcrumbList", "itemListElement": [{"@type": "ListItem", "position": 1, "name": "売り場", "item": "https://otokuboy.com/"}, {"@type": "ListItem", "position": 2, "name": "特集", "item": "https://otokuboy.com/feature/"}, {"@type": "ListItem", "position": 3, "name": "初売り", "item": "https://otokuboy.com/feature/hatsuuri/"}]}</script>
+<link rel="alternate" type="application/rss+xml" title="OTOKUBOY" href="https://otokuboy.com/feed.xml">
+<link rel="icon" href="../../favicon.png"><link rel="apple-touch-icon" href="../../apple-touch-icon.png">
+<link rel="preconnect" href="https://fonts.googleapis.com"><link rel="preconnect" href="https://fonts.gstatic.com" crossorigin><link rel="stylesheet" href="https://fonts.googleapis.com/css2?family=Anton&family=Dela+Gothic+One&family=M+PLUS+1+Code:wght@400;500;700&family=Zen+Kaku+Gothic+New:wght@500;700&display=swap"><link rel="stylesheet" href="../../style.css"></head><body>
+<header class="top"><a class="brand" href="../../">OTOKUBOY<small>お金とアプリの売り場</small></a></header>
+<main><div class="a-head s-head" style="--bg:#F8DB82;--fg:#5C3A00"><div class="hero"><img src="../../img/hero/feature.webp" alt=""></div><div class="wrap">
+<p class="crumb"><a href="../../">売り場</a> ／ <a href="../../feature/">特集</a></p><p class="hook">ブログ</p><h1>初売り</h1>
+<p class="lede">ブランドや店舗ごとの初売り日程、対象商品、特典の条件。</p></div></div>
+<section class="latest"><div class="wrap"><p class="chips"><a href="../../feature/">ぜんぶ</a><a href="../../feature/fukubukuro/">福袋</a><a href="../../feature/hatsuuri/" class=on>初売り</a></p><div class="cards" data-page="12"><p class="empty">この棚の記事は準備中です。</p></div><p class="more"><button type="button">もっと見る</button></p></div></section></main>
+<footer class="foot"><div class="wrap"><div class="g">
+<div><h4>YOUTUBE</h4><ul><li><a href="../../money/">お金（お金の総合チャンネル）</a></li><li><a href="../../kaitai/">企業解説（ビジネス解体新書）</a></li><li><a href="../../shikaku/">資格解説（マルバツ資格塾）</a></li></ul></div>
+<div><h4>APPS</h4><ul><li><a href="../../apps/diving/">ダイビング（Ocean Discovery）</a></li><li><a href="../../apps/sake/">お酒（お酒図鑑）</a></li><li><a href="../../apps/workout/">筋トレ（筋トレクエスト）</a></li><li><a href="../../apps/tabi/">旅記録（Tabi Note）</a></li><li><a href="https://tabinoteapp.com/apps/">アプリのサポート</a></li></ul></div>
+<div><h4>ABOUT</h4><ul><li><a href="../../about/">このサイトについて・運営者</a></li><li><a href="../../privacy/">プライバシーと広告の表記</a></li><li>数字は公式の発表で確かめたものだけを載せます。</li><li>金額・締切は記事の日付時点のものです。申込みの前に公式の最新の案内を確かめてください。</li></ul></div>
+</div><div class="big">OTOKUBOY</div></div></footer>
+<script src="../../app.js"></script></body></html>

diff --git a/index.html b/index.html
@@ -9,7 +9,7 @@
 <link rel="icon" href="favicon.png"><link rel="apple-touch-icon" href="apple-touch-icon.png">
 <link rel="preconnect" href="https://fonts.googleapis.com"><link rel="preconnect" href="https://fonts.gstatic.com" crossorigin><link rel="stylesheet" href="https://fonts.googleapis.com/css2?family=Anton&family=Dela+Gothic+One&family=M+PLUS+1+Code:wght@400;500;700&family=Zen+Kaku+Gothic+New:wght@500;700&display=swap"><link rel="stylesheet" href="style.css"></head><body>
 <header class="top"><a class="brand" href="./">OTOKUBOY<small>お金とアプリの売り場</small></a></header>
-<main><h1 class="vh">OTOKUBOY — お金の早見表と、つくっているアプリの売り場</h1><div class="aisle n5"><section class="panel" id="money" style="--bg:#F8DB82;--fg:#5C3A00">
+<main><h1 class="vh">OTOKUBOY — お金の早見表と、つくっているアプリの売り場</h1><div class="aisle n6"><section class="panel" id="money" style="--bg:#F8DB82;--fg:#5C3A00">
 <button class="panel-open" aria-expanded="false" aria-label="お金の売り場をひらく"><span>売り場をひらく</span></button>
 <p class="kind">YouTube</p><h2>お金</h2><div class="hero"><img src="img/hero/money.webp" alt=""></div><p class="en">MONEY</p>
 <p class="tagline">締切と最安が一目でわかる、お金の早見表。ふるさと納税・セール・ポイント・税と制度・スマホ料金。</p>
@@ -27,8 +27,13 @@
 <button class="close" aria-label="とじる">×</button></section><section class="panel" id="travel" style="--bg:#A9E2DC;--fg:#0C4A4E">
 <button class="panel-open" aria-expanded="false" aria-label="トラベルの売り場をひらく"><span>売り場をひらく</span></button>
 <p class="kind">ブログ</p><h2>トラベル</h2><div class="hero"><img src="img/hero/travel.webp" alt=""></div><p class="en">TRAVEL</p>
-<p class="tagline">旅行のセールとクーポン、マイル、旅に強いクレジットカード。旅をお得にする方法をまとめます。</p>
+<p class="tagline">おすすめの宿、旅先の見どころ、セールやマイルなど、旅の計画と予約に役立つ情報をまとめます。</p>
 <aside class="receipt " aria-label="トラベルの新着"><h3>RECEIPT</h3><p class="sub">トラベル・新しい順</p><hr><ol><li class="none">この売り場の記事は準備中です</li></ol><hr><p class="sum"><span>合計</span><span>0本</span></p><div class="bar"></div><p class="thx"><a href="travel/">この売り場をぜんぶ見る →</a></p></aside>
+<button class="close" aria-label="とじる">×</button></section><section class="panel" id="feature" style="--bg:#F3D0CB;--fg:#67273A">
+<button class="panel-open" aria-expanded="false" aria-label="特集の売り場をひらく"><span>売り場をひらく</span></button>
+<p class="kind">ブログ</p><h2>特集</h2><div class="hero"><img src="img/hero/feature.webp" alt=""></div><p class="en">FEATURE</p>
+<p class="tagline">福袋の中身・予約・抽選と、初売りの期間・条件をブランドごとに紹介します。</p>
+<aside class="receipt " aria-label="特集の新着"><h3>RECEIPT</h3><p class="sub">特集・新しい順</p><hr><ol><li class="none">この売り場の記事は準備中です</li></ol><hr><p class="sum"><span>合計</span><span>0本</span></p><div class="bar"></div><p class="thx"><a href="feature/">この売り場をぜんぶ見る →</a></p></aside>
 <button class="close" aria-label="とじる">×</button></section><section class="panel" id="apps" style="--bg:#D2CCF2;--fg:#2C2262">
 <button class="panel-open" aria-expanded="false" aria-label="アプリの売り場をひらく"><span>売り場をひらく</span></button>
 <p class="kind">アプリ</p><h2>アプリ</h2><div class="hero"><img src="img/hero/apps.webp" alt=""></div><p class="en">APPS</p>

diff --git a/style.css b/style.css
@@ -291,3 +291,13 @@ dialog.zoom div{width:100%;height:100%;overflow:auto;display:grid;place-items:ce
 dialog.zoom img{max-width:none;width:max(100vw,min(1100px,180vw));height:auto}
 dialog.zoom button{position:fixed;top:12px;right:12px;z-index:1;width:44px;height:44px;border-radius:50%;border:2px solid #fff;background:#000;color:#fff;font-size:22px;line-height:1;cursor:pointer}
 @media (min-width:900px){dialog.zoom img{width:min(1400px,94vw)}}
+
+.travel-topics { display: grid; grid-template-columns: 1fr 1.55fr; gap: 1rem; padding-block: 1.6rem 0.5rem; }
+.travel-topics section { min-width: 0; border: 1px solid #d9e2dd; border-radius: 14px; padding: 1rem; background: #f8fbf9; }
+.travel-topics h2, .travel-latest { margin: 0 0 0.75rem; font-size: 1.25rem; }
+.travel-topics section > div { display: grid; grid-template-columns: repeat(2, minmax(0, 1fr)); gap: 0.65rem; }
+.travel-topics a { display: grid; gap: 0.3rem; align-content: start; min-height: 3.4rem; padding: 0.7rem; border-radius: 8px; border: 1px solid #cad9d1; background: white; color: #123d32; text-decoration: none; }
+.travel-topics a:hover, .travel-topics a:focus-visible { background: #e9f5ee; outline: 2px solid #3a705e; outline-offset: 1px; }
+.travel-topics a span { font-size: 0.83rem; color: #344f46; }
+@media (max-width: 760px) { .travel-topics { grid-template-columns: 1fr; } }
+@media (max-width: 380px) { .travel-topics section > div { grid-template-columns: 1fr; } }
